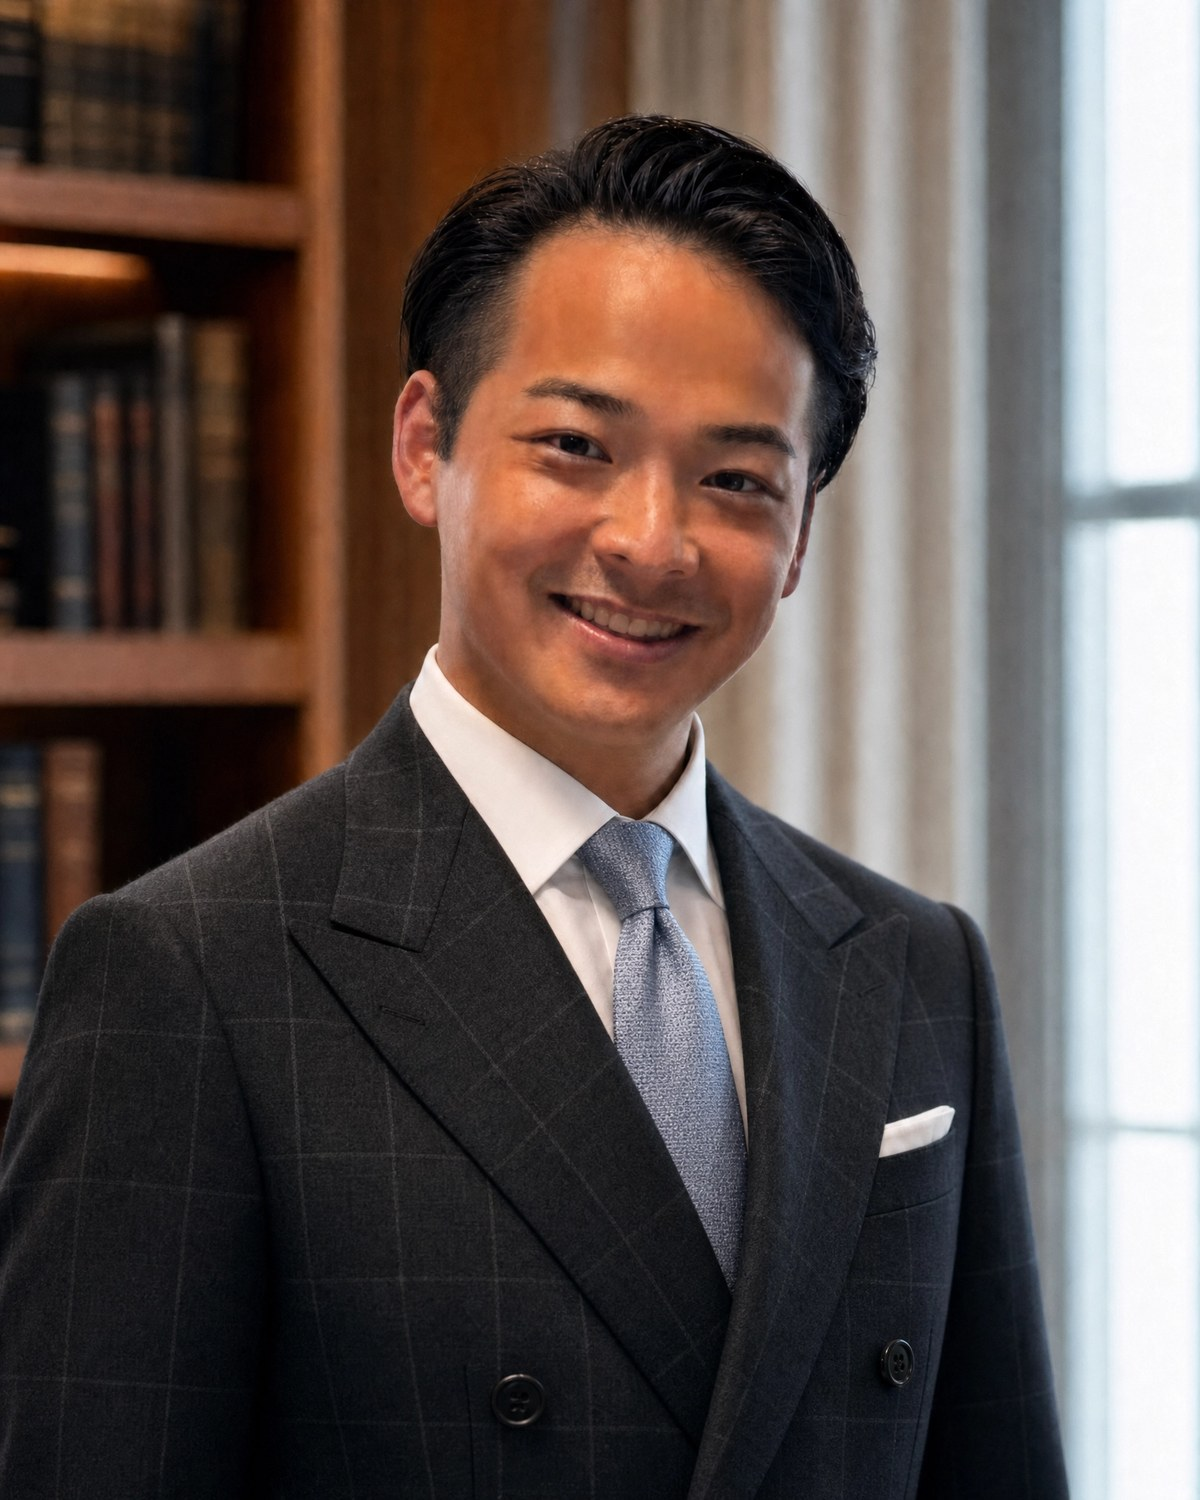
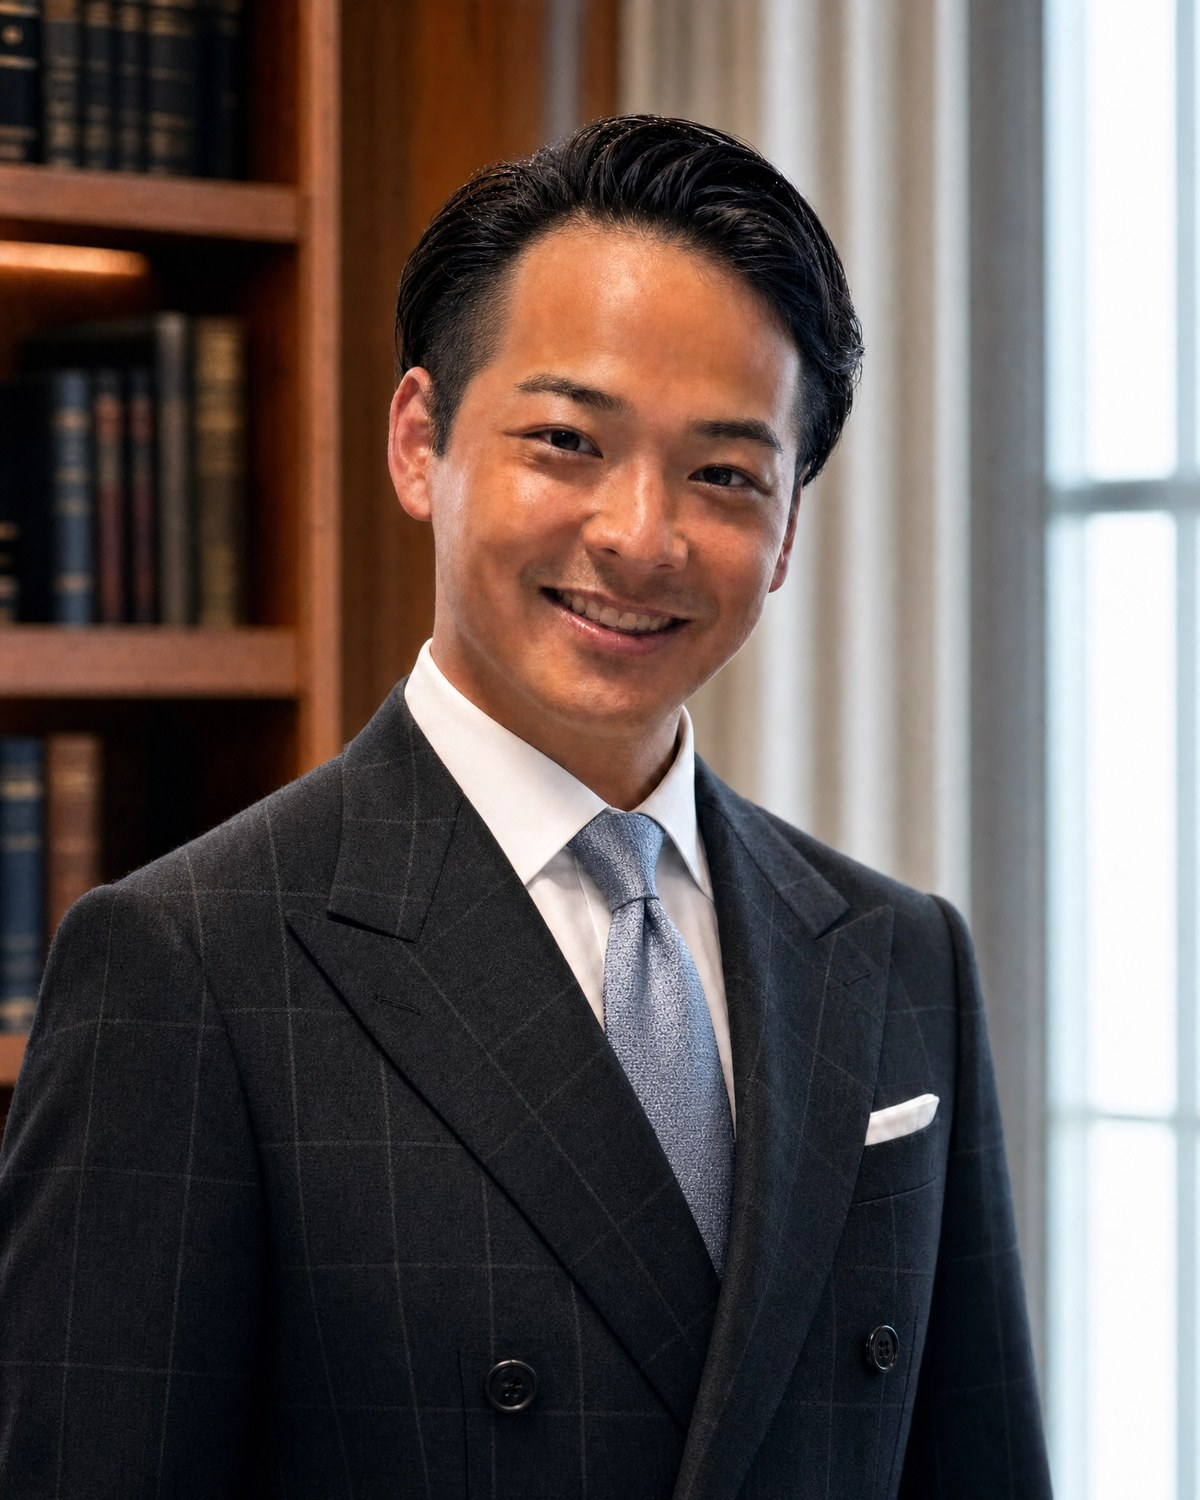
chore: 代表写真を新版に差し替え＆フレームを少しコンパクトに
- 新写真（宣材版）に上書き（PNG 5.7MB → JPEG 262KB、4:5 維持）
- 写真フレームに lg:max-w-[300px] を追加（lg時のみ。スマホは現状維持）
- sizes も 320px → 300px に同期

diff --git a/app/aboutus/page.tsx b/app/aboutus/page.tsx
@@ -305,14 +305,14 @@ export default function AboutPage() {
               代表からのメッセージ
             </h2>
 
-            <div className="mt-10 overflow-hidden rounded-2xl border border-[var(--color-slate-200)] bg-[var(--color-slate-0)] p-1.5 lift">
+            <div className="mt-10 overflow-hidden rounded-2xl border border-[var(--color-slate-200)] bg-[var(--color-slate-0)] p-1.5 lift lg:max-w-[300px]">
               <div className="relative aspect-[4/5] w-full overflow-hidden rounded-xl bg-[var(--color-slate-100)]">
                 <Image
                   src="/images/company/ceo.jpg"
                   alt="代表取締役 深谷洸樹"
                   fill
                   className="object-cover"
-                  sizes="(min-width: 1024px) 320px, 80vw"
+                  sizes="(min-width: 1024px) 300px, 80vw"
                 />
                 {/* Tag overlay */}
                 <div className="absolute bottom-3 left-3 inline-flex items-center gap-2 rounded-full bg-[var(--color-slate-0)]/85 px-3 py-1 text-[11px] text-[var(--color-slate-700)] backdrop-blur">